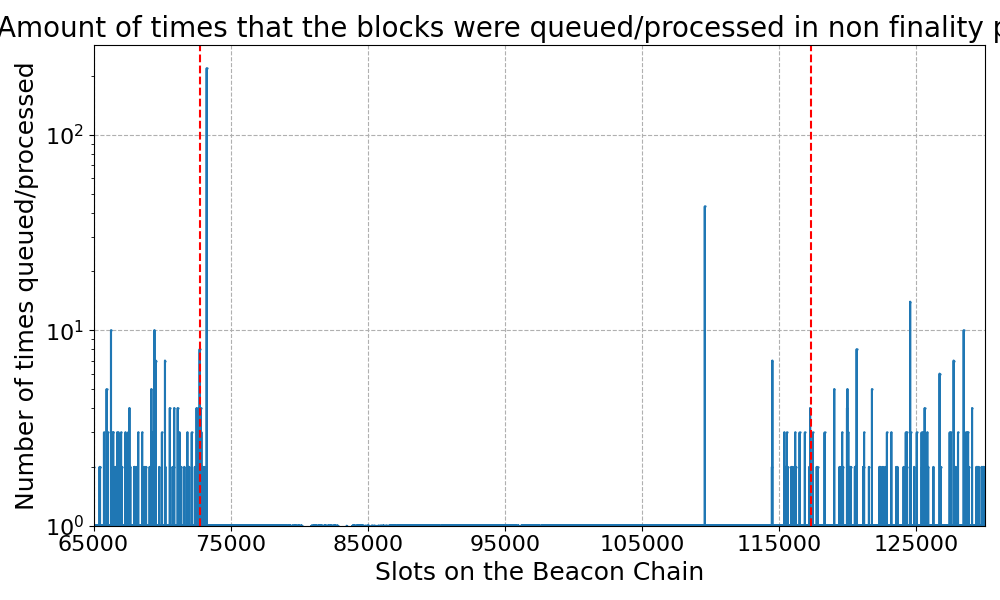
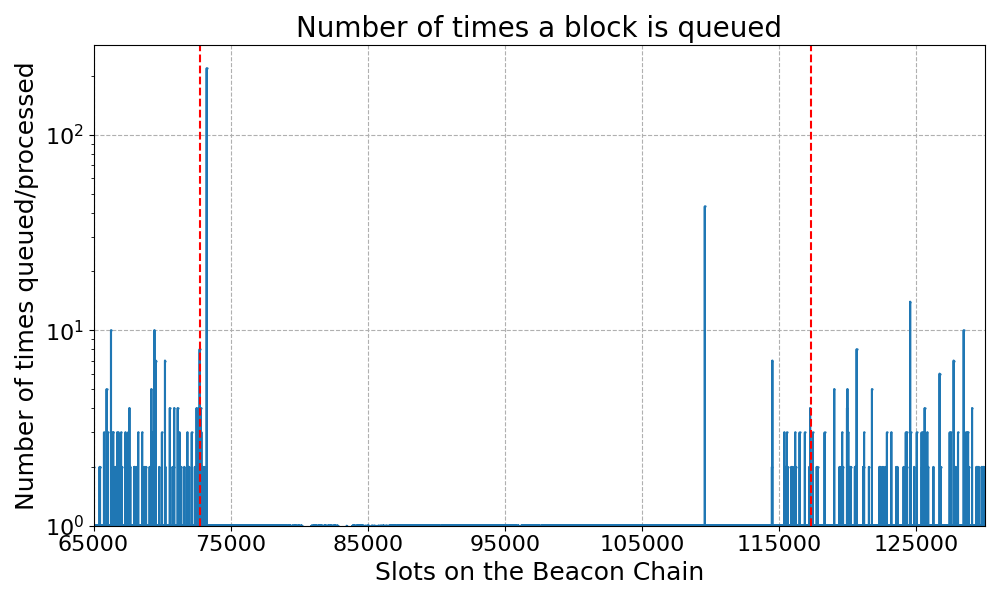
Updated pictures

Changed region(s): [[0.0, 0.03, 1.0, 0.09]]

diff --git a/ETH2-clients-comparison/scripts/parsing_scripts/client_logs_analysis_scripts/lighthouseFullAnalysis.py b/ETH2-clients-comparison/scripts/parsing_scripts/client_logs_analysis_scripts/lighthouseFullAnalysis.py
@@ -237,7 +237,7 @@ def main():
         'tickSize': 16})
         
 	plotColumn(lightEventPanda, opts={
-		'figSize': (15,6),
+		'figSize': (11,6),
 		'figTitle': 'light-events-on-slot-zoomed.png',
 		'outputPath': outFolder,
 		'xlog': False,
@@ -250,7 +250,7 @@ def main():
 		'yLowLimit': 0,
 		'yRange': 1,
 		'yUpperLimit': None,
-		'title': "Lighthouse event's time-line while syncing",
+		'title': "Lighthouse events while syncing",
 		'xLabel': 'Last synced Slot (thousands)',
 		'yLabel': 'Events MSG',
 		'xTickLabel': None,
@@ -269,13 +269,13 @@ def main():
 		'vlineStyle': '--',
 		'marker': '.',
 		'markerStyle': '.',
-		'markerSize': 1.2,
+		'markerSize': 4,
 		'lengendPosition': 1,
 		'legendSize': 16,
 		'tickSize': 16})
         	
 	plotColumn(lightMetricsPanda, opts={
-        'figSize': (15,6),
+        'figSize': (12,6),
         'figTitle': 'light-Disk-on-slot-zoomed.png',
         'outputPath': outFolder,
         'xlog': False,

diff --git a/ETH2-clients-comparison/scripts/plotting_scripts/plotTekuFulllogs.py b/ETH2-clients-comparison/scripts/plotting_scripts/plotTekuFulllogs.py
@@ -32,7 +32,7 @@ def main():
         'yLowLimit': 10**0,
         'yRange': None,
         'yUpperLimit': None,
-        'title': 'Amount of times that the blocks were queued/processed',
+        'title': 'Number of times a block is queued',
         'xLabel': 'Slots on the Beacon Chain',
         'yLabel': 'Number of times queued/processed',
         'legendLabel': None,
@@ -68,7 +68,7 @@ def main():
         'yLowLimit': 10**0,
         'yRange': None,
         'yUpperLimit': None,
-        'title': 'Amount of times that the blocks were queued/processed in non finality period',
+        'title': 'Number of times a block is queued',
         'xLabel': 'Slots on the Beacon Chain',
         'yLabel': 'Number of times queued/processed',
         'legendLabel': None,
